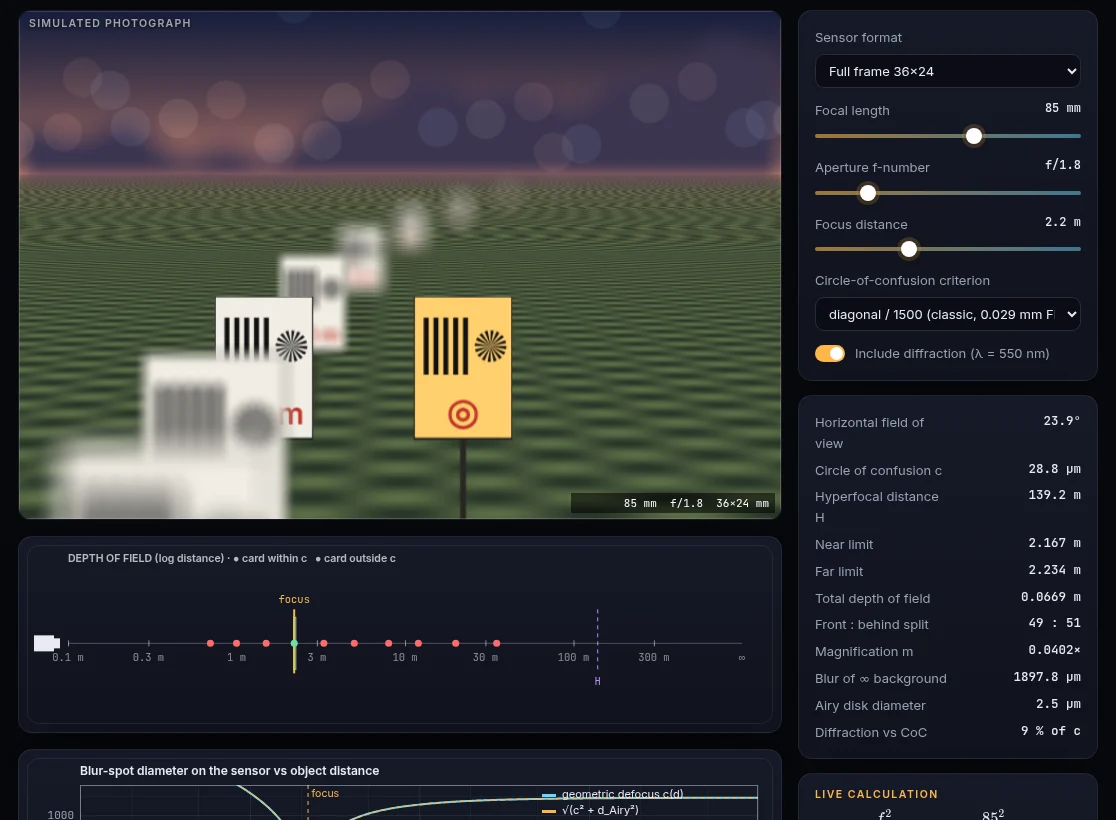
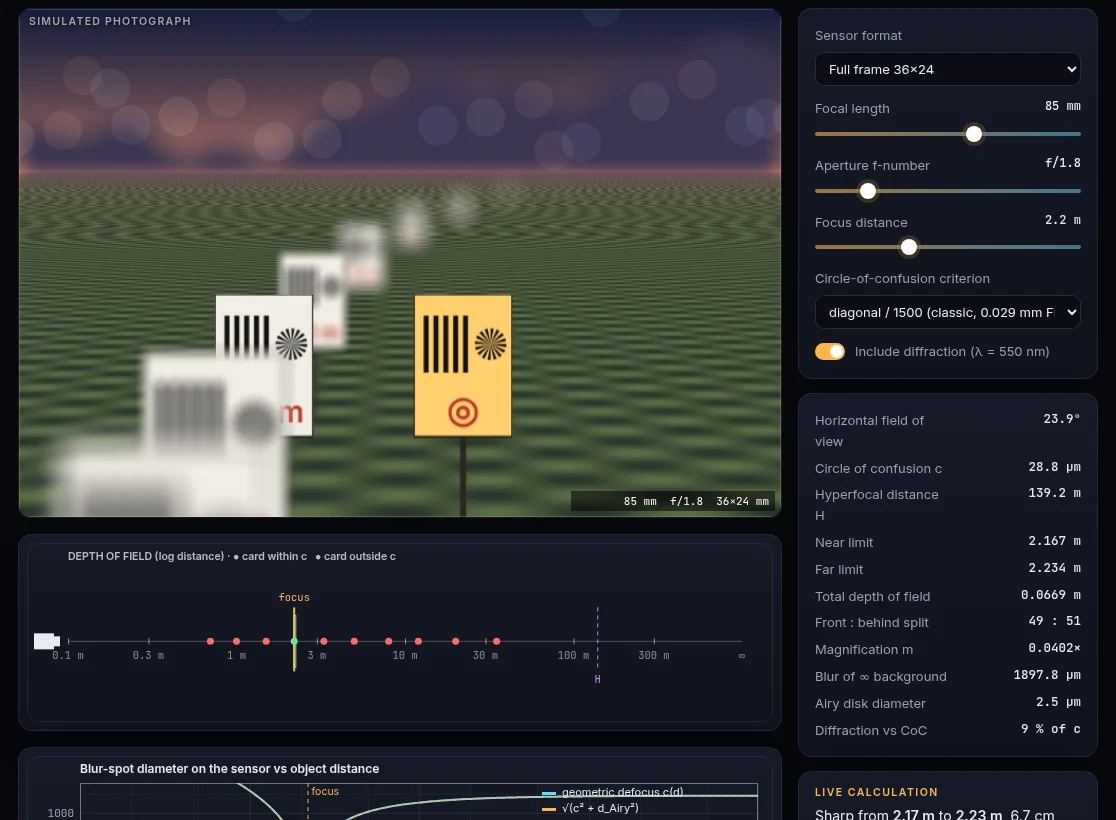
feat(ladder): simple-to-exact explanation ladder, piloted on three labs (#68)
Pages climb from a plain-language idea with things to try, through the
simulation (with the live result in words) and a rule of thumb with its
limits, to the full model and references. A strip under the title jumps
between the steps. Pilot: depth of field, diffraction & PSF, seeing.

diff --git a/js/modules/psf.js b/js/modules/psf.js
@@ -1,5 +1,5 @@
 import { h, controls, stage, readouts, imageCanvas, fmt, texNum } from '../lib/ui.js';
-import { header, lab, theory, references, liveCalc } from '../lib/page.js';
+import { header, lab, idea, rule, theory, references, liveCalc } from '../lib/page.js';
 import { airy, besselJ1 as besselJ1x } from '../lib/pupil.js';
 import { latest } from '../lib/compute.js';
 import { oetf, linspace } from '../lib/color.js';
@@ -27,7 +27,13 @@ const BANDS = {
 };
 
 export default function mount(root, meta) {
-  root.append(header({ ...meta, lede: 'The image of a point is never a point. A lens forms the Fourier transform of its own aperture, so every iris blade, secondary mirror, support strut and segment gap is written into each star and highlight as rings, spikes and halos. These patterns are computed by FFT from the true pupil geometry.', domains: ['photo', 'video', 'space'] }));
+  root.append(header({ ...meta, domains: ['photo', 'video', 'space'] }));
+  root.append(idea(String.raw`<p>Light is a wave, and a wave cannot be squeezed into a single point. Even a perfect lens turns each star into a small bright dot surrounded by faint rings, the <strong>Airy pattern</strong>. The wider the opening, the smaller the dot. That is why large telescopes see finer detail, and why stopping a camera lens far down makes photos softer.</p>
+<p>The shape of the opening is written into the pattern too. A straight edge throws light sideways, at right angles to itself. A six-bladed iris therefore turns bright lights into six-pointed stars, and the struts that hold a telescope's small mirror make the spikes in Hubble and Webb pictures.</p>`, [
+    'Choose <strong>Circular (ideal lens)</strong>: a dot and rings. Now guess what a <strong>Square aperture</strong> gives, then check.',
+    'Choose the <strong>5-blade iris</strong> and count the spikes. Why 10 and not 5? (Each edge sends light both ways; with an even blade count the opposite spikes overlap.)',
+    'Compare <strong>Hubble</strong> with <strong>James Webb</strong>: Webb\'s hexagonal mirror segments give six large spikes, and a strut adds two small ones.',
+  ]));
 
   const ctl = controls({
     preset: { type: 'select', label: 'Aperture', value: 'jwst', options: Object.entries(PRESETS).map(([k, p]) => [k, p.label]) },
@@ -83,6 +89,11 @@ export default function mount(root, meta) {
     if (data.spec.type === 'polygon') rows.push(['Diffraction spikes', `${st.blades % 2 ? 2 * st.blades : st.blades} (${st.blades} blades, ${st.blades % 2 ? 'odd → 2n' : 'even → n'})`]);
     ro.replaceChildren(readouts(rows));
     const D = P.tel ? P.D : null;
+    const th = 1.22 * lam / D, d = 2.44 * band.ref / 1000 * st.N;
+    calc.say((P.tel
+      ? `The finest detail the ${P.label.replace(/ \(.*\)$/, '')} can separate at ${fmt(band.ref / 1000, 3)} µm is about <strong>${fmt(th * 206265 * 1000, 3)} milliarcseconds</strong>: the size of a coin seen from ${fmt(0.023 / th / 1000, 3)} km.`
+      : `At f/${st.N.toPrecision(2)} a point of light becomes a dot <strong>${fmt(d, 3)} µm</strong> across, ${fmt(d / 4.3, 2)} pixels on a sensor with 4.3 µm pixels.`)
+      + (st.defocus ? ` Defocus has lowered the peak to ${(data.strehl * 100).toFixed(0)} % of a perfect focus.` : ''));
     calc.set(P.tel
       ? String.raw`\begin{aligned}\theta_R &= 1.22\,\lambda/D\\ &= 1.22\times\frac{${texNum(band.ref / 1000, 3)}\,\mu\text{m}}{${D}\ \text{m}}\\ &= ${texNum((1.22 * lam / D) * 206265 * 1000, 4)}\ \text{mas}\\ \text{PSF}(\boldsymbol\theta) &= \Big|\mathcal F\{P\,e^{i2\pi W/\lambda}\}\Big|^2_{\,\mathbf f=\boldsymbol\theta/\lambda}\end{aligned}`
       : String.raw`\begin{aligned}I(v) &= \left[\frac{2J_1(v)}{v}\right]^2,\quad v = \frac{\pi r}{\lambda N}\\ r_\text{Airy} &= 1.22\,\lambda N = 1.22\times${texNum(band.ref / 1000, 3)}\times${texNum(st.N, 3)}\\ &= ${texNum(1.22 * band.ref / 1000 * st.N, 3)}\ \mu\text{m}\end{aligned}`);
@@ -174,6 +185,10 @@ export default function mount(root, meta) {
 
   recompute();
 
+  root.append(rule(String.raw`\[\theta \approx 1.22\,\frac{\lambda}{D}\qquad\text{on the sensor:}\qquad d_\text{Airy} = 2.44\,\lambda N \approx 1.3\,N\ \mu\text{m}\]
+<p>The smallest angle a telescope of diameter \(D\) can resolve is about the wavelength \(\lambda\) divided by \(D\). Hubble (2.4 m) in green light: \(1.22 \times 0.55\,\mu\text{m} / 2.4\,\text{m} = 0.28\) µrad, or 0.06″. Double the mirror and the limit halves. In a camera the dot's diameter in micrometres is about 1.3 times the f-number for green light: about 10 µm at f/8, 21 µm at f/16.</p>
+<p>Spikes: an iris with \(n\) straight blades gives \(n\) spikes when \(n\) is even and \(2n\) when it is odd.</p>`,
+    String.raw`It describes a round, perfectly focused aperture. A central obstruction moves light from the core into the rings, aberrations and defocus spread it further, and on the ground the atmosphere usually blurs far more than diffraction does (see <a href="#/seeing">Atmospheric seeing</a>). The full model below computes the pattern for any aperture.`));
   root.append(theory('Fraunhofer diffraction by apertures', String.raw`
 <div class="theory-cols"><div>
 <h3>The PSF is the squared Fourier transform of the pupil</h3>

diff --git a/js/lib/page.js b/js/lib/page.js
@@ -7,7 +7,7 @@ export function header(meta) {
   return h('header.mod-head', {},
     h('div.eyebrow', {}, meta.group),
     h('h1', {}, meta.title),
-    h('p.lede', {}, meta.lede || ''),
+    meta.lede ? h('p.lede', {}, meta.lede) : null,
     h('div.tags', {}, ...(meta.domains || []).map((d) => h('span.tag.' + d, {}, TAG[d] || d)),
       h('button.tag.share', { type: 'button', title: 'Copy a link to this page with the current settings', onClick: (e) => copyLink(e.currentTarget.querySelector('span')),
         html: '<svg width="12" height="12" viewBox="0 0 24 24" fill="none" stroke="currentColor" stroke-width="2.4" stroke-linecap="round" aria-hidden="true"><path d="M10 14a5 5 0 0 0 7.07 0l3-3a5 5 0 0 0-7.07-7.07l-1.5 1.5"/><path d="M14 10a5 5 0 0 0-7.07 0l-3 3a5 5 0 0 0 7.07 7.07l1.5-1.5"/></svg><span>Copy link</span>' })),
@@ -32,19 +32,70 @@ export function lab(main, side, wide = false) {
       new IntersectionObserver(([e]) => card.classList.toggle('in-view', e.isIntersecting), { rootMargin: '-35% 0px -35% 0px' }).observe(mainEl);
     } else card.classList.add('in-view');
   }
-  return h('div.lab' + (wide ? '.wide-ctl' : ''), {}, mainEl, h('div.lab-side', {}, ...side));
+  return h('div.lab' + (wide ? '.wide-ctl' : ''), { 'data-rung': 'sim' }, mainEl, h('div.lab-side', {}, ...side));
 }
 
-export function theory(title, html) { return section(title, prose(html)); }
+// ── Explanation ladder ───────────────────────────────────────────────────────────────────
+// A page reads from simple to exact: ① the idea in plain words (with things to try), the
+// simulation, ② a rule of thumb that says where it stops working, ③ the full model, ④ references.
+// Every rung is visible; ladder() adds the numbers and a strip to jump between them.
+export function idea(html, tries = []) {
+  return h('section.block.rung-idea', { 'data-rung': 'idea' }, h('h2', {}, 'The idea'),
+    h('div.idea', {}, prose(html, 'idea-text'),
+      tries.length ? h('div.try', {}, h('div.calc-title', {}, 'Try it'), h('ol', {}, ...tries.map((t) => h('li', { html: t })))) : null));
+}
+
+export function rule(html, limits) {
+  return h('section.block.rung-rule', { 'data-rung': 'rule' }, h('h2', {}, 'Rule of thumb'),
+    prose(html + (limits ? `<div class="callout blue"><strong>Where it stops working.</strong> ${limits}</div>` : '')));
+}
+
+export function theory(title, html) {
+  const el = section(title, prose(html));
+  el.dataset.rung = 'full';
+  return el;
+}
 
 export function references(items) {
-  return section('References', h('ol.refs', {}, ...items.map((r) => h('li', { html: r }))));
+  const el = section('References', h('ol.refs', {}, ...items.map((r) => h('li', { html: r }))));
+  el.dataset.rung = 'refs';
+  return el;
+}
+
+const RUNGS = { idea: 'The idea', sim: 'Simulation', rule: 'Rule of thumb', full: 'Full model', refs: 'References' };
+// Numbers the rungs and inserts the jump strip under the header. Returns a cleanup function.
+export function ladder(page) {
+  const seen = new Set();
+  const rungs = [...page.querySelectorAll('[data-rung]')].filter((el) => !seen.has(el.dataset.rung) && seen.add(el.dataset.rung));
+  if (!rungs.some((el) => el.dataset.rung === 'idea')) return () => {};
+  let n = 0;
+  const items = rungs.map((el) => {
+    const k = el.dataset.rung, num = k === 'sim' ? null : String(++n);
+    const h2 = el.querySelector(':scope > h2');
+    if (num && h2) h2.prepend(h('span.rung-n', { 'aria-hidden': 'true' }, num));
+    const b = h('button', { type: 'button', onClick: () => el.scrollIntoView({ behavior: 'smooth', block: 'start' }) },
+      num ? h('span.rung-n', { 'aria-hidden': 'true' }, num) : h('span.rung-n.sim', { 'aria-hidden': 'true' }, '▶'), RUNGS[k]);
+    return { el, b };
+  });
+  const nav = h('nav.ladder', { 'aria-label': 'From the simple idea to the full model' },
+    h('span.ladder-k', {}, 'Simple → exact'), ...items.map((i) => i.b));
+  page.querySelector('.mod-head')?.after(nav);
+  if (typeof IntersectionObserver !== 'function') return () => {};
+  const vis = new Map();
+  const io = new IntersectionObserver((es) => {
+    for (const e of es) vis.set(e.target, e.isIntersecting);
+    const cur = items.find((i) => vis.get(i.el));
+    for (const i of items) i.b.classList.toggle('on', i === cur);
+  }, { rootMargin: '-20% 0px -55% 0px' });
+  for (const i of items) io.observe(i.el);
+  return () => io.disconnect();
 }
 
 // Live-calculation card: returns {el, set(tex)}
 import { setTex } from './ui.js';
+// say(html) puts the result in plain words above the equations.
 export function liveCalc(title = 'Live calculation') {
-  const body = h('div');
-  const el = h('div.card.calc', {}, h('div.calc-title', {}, title), body);
-  return { el, set: (src) => setTex(body, src, true) };
+  const words = h('p.calc-say'), body = h('div');
+  const el = h('div.card.calc', {}, h('div.calc-title', {}, title), words, body);
+  return { el, set: (src) => setTex(body, src, true), say: (html) => { words.innerHTML = html; } };
 }

diff --git a/js/modules/dof.js b/js/modules/dof.js
@@ -1,5 +1,5 @@
 import { h, controls, stage, readouts, fmt, texNum } from '../lib/ui.js';
-import { header, lab, theory, references, liveCalc } from '../lib/page.js';
+import { header, lab, idea, rule, theory, references, liveCalc } from '../lib/page.js';
 import { SENSORS, diag, pitchUm } from '../lib/sensors.js';
 import { besselJ1 } from '../lib/pupil.js';
 import { plot, logRange } from '../lib/plot.js';
@@ -69,7 +69,13 @@ function cardImage(wpx, hpx, label, subject) {
 }
 
 export default function mount(root, meta) {
-  root.append(header({ ...meta, lede: 'A lens focuses exactly one plane. Points in front of or behind it image as blur disks, and depth of field is the range over which those disks stay smaller than a chosen circle of confusion. The photograph below is rendered with the camera\'s real geometry: framing from focal length and sensor size, and per-object blur from the thin-lens equation.', domains: ['photo', 'video'] }));
+  root.append(header({ ...meta, domains: ['photo', 'video'] }));
+  root.append(idea(String.raw`<p>A lens can bring only one distance into perfect focus. Anything nearer or farther becomes a small blurred spot instead of a point. While those spots stay small, the eye still reads them as sharp, so there is a zone around the focus distance that looks sharp: the <strong>depth of field</strong>.</p>
+<p>Three things set its depth. A <strong>smaller aperture</strong> (a larger f-number such as f/11) narrows the cone of light and deepens the zone, which is why squinting helps you see. <strong>Focusing farther away</strong> deepens it quickly. A <strong>longer lens</strong> at the same distance makes it shallower.</p>`, [
+    'Set the aperture to <strong>f/1.8</strong> and focus at <strong>2 m</strong>: only a thin slice is sharp. Guess what <strong>f/11</strong> will do, then try it.',
+    'Keep f/1.8 and move the focus from 2 m to <strong>10 m</strong>. The sharp zone grows about 25-fold, not 5-fold. The rule of thumb below says why.',
+    'Stop down to <strong>f/32</strong> and toggle <strong>Include diffraction</strong>: past a point, a smaller aperture makes everything slightly soft.',
+  ]));
 
   const ctl = controls({
     sensor: { type: 'select', label: 'Sensor format', value: 'ff', options: Object.entries(SENSORS).map(([k, s]) => [k, s.name]) },
@@ -118,6 +124,11 @@ export default function mount(root, meta) {
       ['Airy disk diameter', (airy * 1000).toFixed(1) + ' µm'],
       ['Diffraction vs CoC', airy > c ? 'diffraction-limited ⚠' : (airy / c * 100).toFixed(0) + ' % of c'],
     ]));
+    const m1 = (x) => fmt(x / 1000, 3) + ' m';
+    calc.say((isFinite(Df)
+      ? `Sharp from <strong>${m1(Dn)}</strong> to <strong>${m1(Df)}</strong>, ${tot < 1000 ? fmt(tot / 10, 2) + ' cm' : fmt(tot / 1000, 2) + ' m'} deep: ${(((s - Dn) / tot) * 100).toFixed(0)} % of it in front of the focus, ${(((Df - s) / tot) * 100).toFixed(0)} % behind.`
+      : `Sharp from <strong>${m1(Dn)}</strong> to <strong>infinity</strong>: the focus is at or beyond the hyperfocal distance (${m1(H)}).`)
+      + (M.diff && airy > c ? ' At this f-number diffraction alone blurs more than the sharpness limit, so nothing is perfectly crisp.' : ''));
     calc.set(String.raw`\begin{aligned}
 H &= \frac{f^2}{Nc} + f = \frac{${texNum(f, 4)}^2}{${texNum(N, 3)}\times${texNum(c, 3)}} + ${texNum(f, 4)}\\ &= ${texNum(H / 1000, 4)}\ \text{m}\\[2pt]
 D_N &= \frac{s f^2}{f^2 + Nc(s-f)} = ${texNum(Dn / 1000, 4)}\ \text{m}\\[2pt]
@@ -275,6 +286,10 @@ c(d) &= \frac{f}{N}\cdot\frac{f\,|d-s|}{d\,(s-f)}
 
   update();
 
+  root.append(rule(String.raw`\[\mathrm{DoF} \approx \frac{2\,N c\, s^2}{f^2}\]
+<p>Depth of field grows with the f-number \(N\) and with the <em>square</em> of the focus distance \(s\), and shrinks with the square of the focal length \(f\). \(c\) is the largest blur spot that still looks sharp, about 0.03 mm on a full-frame sensor. Example: an 85 mm lens at f/1.8 focused at 2 m gives \(2 \times 1.8 \times 0.03 \times 2000^2 / 85^2 \approx 60\) mm, so only 6 cm is sharp. Focus at 4 m and it is four times deeper.</p>
+<p>A second rule: focus at the <strong>hyperfocal distance</strong> \(H \approx f^2/(Nc)\) and everything from \(H/2\) to infinity looks sharp. For a 24 mm lens at f/8 that is 2.4 m, so everything beyond 1.2 m is sharp.</p>`,
+    String.raw`It assumes the subject is much farther away than the focal length and much closer than the hyperfocal distance. Near \(H\) the far limit runs off to infinity, and in close-up work the magnification term takes over. The full model below handles both, and the live calculation uses it.`));
   root.append(theory('Derivation', String.raw`
 <div class="theory-cols"><div>
 <h3>Blur disk from the thin-lens equation</h3>

diff --git a/js/modules/seeing.js b/js/modules/seeing.js
@@ -1,12 +1,18 @@
 import { h, controls, stage, readouts, debounce, imageCanvas, fmt, texNum, reducedMotion } from '../lib/ui.js';
-import { header, lab, theory, references, liveCalc } from '../lib/page.js';
+import { header, lab, idea, rule, theory, references, liveCalc } from '../lib/page.js';
 import { rasterAperture, psf } from '../lib/pupil.js';
 import { lut } from '../lib/color.js';
 import { phaseScreen } from '../lib/turbulence.js';
 
 
 export default function mount(root, meta) {
-  root.append(header({ ...meta, lede: 'Turbulent mixing of air at different temperatures makes the refractive index fluctuate by parts per million. That is enough to corrugate a starlight wavefront by several micrometres across a large telescope, blurring a 0.01″ diffraction pattern into a 1″ seeing disk. Adaptive optics measures the corrugations a thousand times per second and flattens them with a deformable mirror. Space telescopes avoid the problem entirely.', domains: ['space', 'photo'] }));
+  root.append(header({ ...meta, domains: ['space', 'photo'] }));
+  root.append(idea(String.raw`<p>Look across a road on a hot day and the view behind it shimmers. Starlight suffers the same on its way down: pockets of warmer and cooler air bend it by slightly different amounts. A star's image dances and breaks into flickering speckles, and a long exposure smears them into a fuzzy blob, often dozens of times larger than the telescope could otherwise show. Astronomers call this <strong>seeing</strong>. It is why observatories sit on mountaintops, and why telescopes go to space.</p>
+<p><strong>Adaptive optics</strong> fights back: a sensor measures the distortion hundreds of times per second, and a flexible mirror bends to cancel it.</p>`, [
+    'Set Correction to <strong>None</strong> and compare the long exposure with the diffraction limit on the right. How many times larger is the blob?',
+    'Switch to <strong>Full AO</strong>, then raise the <strong>wind speed</strong> to 40 m/s: the mirror can no longer keep up.',
+    'With Full AO, move the <strong>wavelength</strong> from 0.5 to 2.2 µm. The correction works far better in the infrared, which is where most adaptive optics observes.',
+  ]));
 
   const ctl = controls({
     D: { type: 'range', label: 'Telescope diameter D', min: 0.2, max: 10, log: true, value: 4, unit: 'm' },
@@ -65,6 +71,10 @@ export default function mount(root, meta) {
       ['Predicted Strehl e^(−σ²)', Math.exp(-sTot).toExponential(2)],
       ['Measured long-exp. Strehl', '…'],
     ]));
+    const strehl = Math.exp(-sTot);
+    calc.say(`At ${lam} µm the air blurs stars to <strong>${seeing.toFixed(2)}″</strong>, ${Math.max(1, seeing / dlim).toFixed(0)} times the ${st.D.toPrecision(2)} m telescope's own limit of ${(dlim * 1000).toFixed(0)} mas. `
+      + (st.ao === 'off' ? 'Without correction, ' : st.ao === 'tt' ? 'Removing only the image motion, ' : 'With adaptive optics, ')
+      + `the peak brightness is about <strong>${strehl < 0.001 ? 'below 0.1' : (strehl * 100).toPrecision(2)} %</strong> of a perfect image (the Strehl ratio).`);
     calc.set(String.raw`\begin{aligned}
     r_0(\lambda) &= r_0(500)\left(\tfrac{\lambda}{0.5\,\mu m}\right)^{6/5} = ${texNum(r0l * 100, 3)}\ \text{cm}\\
     \sigma^2_\text{fit} &= 0.28\,(d/r_0)^{5/3} = ${texNum(sFit, 3)}\\
@@ -198,6 +208,10 @@ export default function mount(root, meta) {
   reset();
   raf = requestAnimationFrame(loop);
 
+  root.append(rule(String.raw`\[\text{seeing} \approx \frac{\lambda}{r_0}\qquad\text{vs.}\qquad \text{diffraction} \approx 1.22\,\frac{\lambda}{D}\]
+<p>The Fried parameter \(r_0\) is the width of a patch of air that bends light nearly uniformly: 10–20 cm in visible light at a good site. A telescope larger than \(r_0\) resolves no better than one of diameter \(r_0\). Example: with \(r_0 = 12\) cm at 0.5 µm, seeing is \(0.98 \times 0.5\,\mu\text{m}/0.12\,\text{m} \approx 0.84″\), while a 4 m telescope could reach 0.03″, about 27 times sharper.</p>
+<p>\(r_0\) grows with wavelength as \(\lambda^{6/5}\), so seeing improves slowly towards the infrared (\(\propto\lambda^{-1/5}\)) while the diffraction limit worsens. The gap that adaptive optics must close is smallest there.</p>`,
+    String.raw`It assumes Kolmogorov turbulence with a very large outer scale. For telescopes approaching the outer scale (tens of metres) the real seeing disk is smaller than \(\lambda/r_0\) predicts, and a telescope smaller than \(r_0\) is limited by diffraction instead. Real nights change \(r_0\) from minute to minute.`));
   root.append(theory('Kolmogorov turbulence and its correction', String.raw`
 <div class="theory-cols"><div>
 <h3>Statistics of the refractive index</h3>

diff --git a/css/style.css b/css/style.css
@@ -311,3 +311,41 @@ canvas:focus-visible { outline-offset: -2px; }
 .rx-table td { vertical-align: middle; }
 .rx-table select.rx-glass { width: 128px; padding: 5px 6px; }
 .rx-del { padding: 4px 9px; }
+
+/* Explanation ladder: ① idea → simulation → ② rule of thumb → ③ full model → ④ references */
+.ladder {
+  position: sticky; top: 0; z-index: 12; display: flex; align-items: center; gap: 4px; overflow-x: auto; scrollbar-width: none;
+  margin: 0 0 6px; padding: 8px 0; background: rgba(7, 8, 13, 0.86); backdrop-filter: blur(10px); border-bottom: 1px solid var(--line);
+}
+.ladder::-webkit-scrollbar { display: none; }
+.ladder-k { font: 600 10.5px/1 var(--font-sans); letter-spacing: .14em; text-transform: uppercase; color: var(--fg-faint); margin-right: 8px; white-space: nowrap; }
+.ladder button {
+  display: inline-flex; align-items: center; gap: 7px; flex: 0 0 auto; padding: 5px 11px 5px 6px; border-radius: 99px;
+  border: 1px solid transparent; background: transparent; color: var(--fg-dim); font: 500 12.5px var(--font-sans); cursor: pointer;
+}
+.ladder button:hover { color: var(--fg); border-color: var(--line-2); }
+.ladder button.on { color: var(--fg); border-color: var(--line-2); background: rgba(255, 255, 255, 0.04); }
+.rung-n {
+  display: inline-grid; place-items: center; width: 22px; height: 22px; flex: 0 0 22px; border-radius: 50%;
+  border: 1px solid var(--accent); color: var(--accent); font: 600 12px/1 var(--font-mono);
+}
+.ladder .rung-n { width: 19px; height: 19px; flex-basis: 19px; font-size: 10.5px; }
+.rung-n.sim { border-color: var(--accent-2); color: var(--accent-2); font-size: 8px; }
+.ladder button.on .rung-n { background: var(--accent); color: #111; }
+.ladder button.on .rung-n.sim { background: var(--accent-2); }
+[data-rung] { scroll-margin-top: 58px; }
+.rung-idea { margin-top: 8px; }
+.idea { display: grid; grid-template-columns: minmax(0, 1.5fr) minmax(0, 1fr); gap: 18px 28px; align-items: start; }
+.idea-text { font-size: 16.5px; color: var(--fg); max-width: 70ch; }
+.idea-text p:last-child { margin-bottom: 0; }
+.try { border-left: 2px solid var(--accent-2); background: rgba(106, 215, 255, 0.04); border-radius: 0 10px 10px 0; padding: 10px 14px; }
+.try .calc-title { color: var(--accent-2); }
+.try ol { margin: 6px 0 0; padding-left: 18px; font-size: 14px; color: var(--fg-dim); }
+.try li { margin: 6px 0; }
+.try li strong { color: var(--fg); }
+.calc-say { margin: 6px 0 4px; font-size: 14px; line-height: 1.5; color: var(--fg); }
+.calc-say:empty { display: none; }
+@media (max-width: 860px) {
+  .ladder { position: static; background: none; backdrop-filter: none; }
+  .idea { grid-template-columns: 1fr; }
+}

diff --git a/js/app.js b/js/app.js
@@ -1,5 +1,6 @@
 // Optica Viva — router and module registry.
 import { h, resetUrlState } from './lib/ui.js';
+import { ladder } from './lib/page.js';
 
 // Laboratories that are implemented; the rest show an 'under construction' notice.
 export const READY = new Set(['home', 'foundations', 'raytracer', 'dof', 'psf', 'zernike', 'chromatic', 'sensor', 'projection', 'mtf', 'bokeh', 'flare', 'seeing', 'lucky', 'wfs', 'spectro', 'interferometry', 'detectors', 'adc', 'stacking', 'starshade', 'fieldpsf', 'telescope', 'lensing', 'sampling', 'noise', 'hdr', 'colour', 'cinema', 'motion', 'shake', 'film', 'vp', 'vignetting', 'perspective', 'tiltshift', 'panorama', 'macro', 'eye', 'polarisation', 'catalogue']);
@@ -93,7 +94,9 @@ async function route() {
   try {
     const mod = await import(`./modules/${meta.id}.js`);
     if (my !== token) return;
-    cleanup = (await mod.default(page, meta)) || null;
+    const done = (await mod.default(page, meta)) || null;
+    const unladder = ladder(page);
+    cleanup = () => { unladder(); if (done) done(); };
   } catch (e) {
     console.error(e);
     const missing = /Failed to fetch|Importing a module script failed|error loading dynamically imported module/i.test(e.message);

diff --git a/ROADMAP.md b/ROADMAP.md
@@ -44,6 +44,7 @@ This file records **what has been delivered** and **what is planned** for Optica
 3. **Zero install.** Static files, no build step, works offline. New dependencies need a strong justification.
 4. **Verifiable.** Claims of accuracy must be backed by a validation entry, and from v1.1 on, by an automated test.
 5. **Beautiful by default.** Visuals must read at a glance in a dark, photographic aesthetic.
+6. **Simple before exact.** Every reader should get somewhere. Pages climb from a plain-language idea through a rule of thumb to the full model, all visible in that order; there is no beginner/expert switch.
 
 ---
 
@@ -53,11 +54,11 @@ This file records **what has been delivered** and **what is planned** for Optica
 flowchart LR
     subgraph Done["✅ Delivered"]
         direction TB
-        D0["v0.1–v0.19<br/>20 laboratories"] --> D1["v1.0<br/>catalogue · stable"] --> D2["v1.0.x<br/>README · roadmap"] --> D3["v1.1<br/>tests · CI · Pages · Safari · a11y"] --> D4["v1.2<br/>worker · faster FFT"] --> D5["v1.3<br/>aspheres · editor · Seidel"] --> D6["v1.4<br/>MTF field · optimiser · tolerancing"] --> D7["v1.5<br/>real-ray flare · traced bokeh"] --> D8["v1.6<br/>polarisation · macro · colour"] --> D9["v1.7<br/>AO loop · spectroscopy"] --> D10["v1.8<br/>7 photo/cine labs"] --> D11["v1.9<br/>7 space labs"]
+        D0["v0.1–v0.19<br/>20 laboratories"] --> D1["v1.0<br/>catalogue · stable"] --> D2["v1.0.x<br/>README · roadmap"] --> D3["v1.1<br/>tests · CI · Pages · Safari · a11y"] --> D4["v1.2<br/>worker · faster FFT"] --> D5["v1.3<br/>aspheres · editor · Seidel"] --> D6["v1.4<br/>MTF field · optimiser · tolerancing"] --> D7["v1.5<br/>real-ray flare · traced bokeh"] --> D8["v1.6<br/>polarisation · macro · colour"] --> D9["v1.7<br/>AO loop · spectroscopy"] --> D10["v1.8<br/>7 photo/cine labs"] --> D11["v1.9<br/>7 space labs"] --> D12["v1.10<br/>catalogue explorer"]
     end
     subgraph Next["Planned"]
         direction TB
-        N7["v2.0 learning platform"]
+        N6["v1.11 simple → exact ladder"] --> N7["v2.0 learning platform"]
     end
     Done --> Next
     style Done fill:#13241b,stroke:#6be3a4,color:#fff
@@ -69,7 +70,7 @@ flowchart LR
 | Laboratories | 39 | v1.9 complete |
 | Catalogue entries | 228, each with details and a worked example | link every new lab |
 | Lens prescriptions | 5 | 10+ with aspheres and file import |
-| Automated tests | 133 tests (physics, blur, lens I/O, ghosts, bokeh, polarisation, macro, colour, AO) + link check + browser smoke test in CI | more coverage per new lab |
+| Automated tests | 137 tests (physics, blur, lens I/O, ghosts, bokeh, polarisation, macro, colour, AO) + link check + browser smoke test in CI | more coverage per new lab |
 | Deployment | GitHub Pages, deployed from `main` by CI | (none) |
 
 ---
@@ -351,6 +352,16 @@ An audit of v1.0.1 (code, performance, layout, accessibility and browser compati
 | [x] **Astrophotography stacking** | SNR ∝ √N, sky-limited vs read-limited sub-exposures, light pollution (PR #59) | P3 · M |
 | [x] **Atmospheric dispersion & ADC** | elongated stellar images vs zenith angle; Risley-prism corrector (PR #57) | P3 · S |
 | [x] **Lucky imaging** | frame selection by Strehl from the seeing simulator (PR #58) | P3 · S |
+
+### v1.11 From simple to exact
+
+*Goal: a reader without physics training understands what each laboratory shows, and a specialist still reaches the derivation in one click.* The design follows the research on concreteness fading (Fyfe et al. 2014), the spiral curriculum (Bruner 1960), the expertise-reversal effect (Kalyuga et al. 2003) and PhET's implicit scaffolding (Podolefsky et al. 2013): simple models first and honest about their limits, short enough not to slow experts down, and guidance through the simulation rather than long instructions.
+
+- [x] **P1 · M** **Ladder pilot** (PR #68): `idea()`, `rule()`, `liveCalc().say()` and the jump strip in `js/lib/page.js`; depth of field, diffraction & the PSF and atmospheric seeing; `test/ladder.test.mjs` (no symbols and at most 120 words in the idea, 1–3 things to try, a rule with its limits, the result in words).
+- [ ] **P1 · L** Ladder for the other 36 laboratories, one PR per sidebar group. When done, the test requires it on every laboratory.
+- [ ] **P2 · M** **Glossary**: one file of one-sentence definitions; terms such as f-number, PSF, Strehl ratio and MTF show them on hover or tap.
+- [ ] **P2 · S** **"Start here" path** on the home page: laboratories ordered from basic (pinhole, exposure, depth of field) to advanced (adaptive optics, starshade), as a suggestion, not a lock.
+- [ ] **P3 · S** Catalogue entries in the same order: plain description, example, explanation, equation.
 
 ### v2.0 Learning platform
 

diff --git a/README.md b/README.md
@@ -71,6 +71,10 @@ flowchart LR
     style C fill:#221a2e,stroke:#c18cff,color:#fff
 ```
 
+**From the simple idea to the full model.** Readers come with very different backgrounds, so a page climbs from simple to exact instead of offering a beginner/expert switch. ① *The idea* explains the phenomenon in plain words, without symbols, and suggests two or three things to try (predict first, then check). Then comes the simulation, whose live calculation starts with the result in a sentence. ② *Rule of thumb* gives the one formula worth remembering, a worked number and where it stops working. ③ *Full model* is the derivation, and ④ the references. A strip under the title jumps between the steps, so experts can go straight to the derivation. The depth-of-field, diffraction and seeing laboratories use this ladder; the others follow in v1.11.
+
+<img src="docs/screenshots/dof-ladder.webp" alt="Depth-of-field page: the ladder strip (The idea, Simulation, Rule of thumb, Full model, References) above a plain-language explanation and three things to try">
+
 It covers three domains (📷 photography, 🎬 cinematography and 🔭 astronomy and space), and every phenomenon is tagged with the ones it affects.
 
 Every setting is **shareable**. Controls are mirrored into the URL, so a link like [`#/psf?preset=hubble&band=white`](https://iiogurt.github.io/Optica_Viva/#/psf?preset=hubble&band=white) opens that exact configuration. Use **Copy link** in any page header. On phones each lab's controls slide up from a bottom sheet next to the live result. Canvases are labelled for screen readers, keyboard focus is visible, and animations respect *reduce motion*.
@@ -698,7 +702,7 @@ Optica_Viva/
 │   │   ├── phenomena.js       Catalogue data (228 entries in 13 groups)
 │   │   ├── phenomena-details.js  Explanation and worked example for every catalogue entry
 │   │   ├── plot.js            Canvas charting (log axes, legends, bands)
-│   │   ├── ui.js · page.js    DOM builder, controls, canvases, KaTeX helpers (DOM)
+│   │   ├── ui.js · page.js    DOM builder, controls, canvases, KaTeX helpers, explanation ladder (DOM)
 │   ├── workers/compute.js     Module Web Worker running js/lib/tasks.js
 │   └── modules/               One file per page (41)
 ├── vendor/katex/              KaTeX 0.16.11 (MIT), vendored for offline use

diff --git a/CLAUDE.md b/CLAUDE.md
@@ -13,6 +13,7 @@ Use the most precise model that runs interactively, and state every approximatio
 - Run: `npm start` (= `python3 -m http.server 8000`). Hash router: `#/<lab-id>`. Live site: https://iiogurt.github.io/Optica_Viva/ (deployed from `main` by `.github/workflows/pages.yml`; keep all paths relative).
 - `js/app.js`: lab registry (`MODULES`) and `READY` set. `js/lib/`: numerical core (fft, color, glass, raytrace, pupil, thinfilm, sensors, phenomena, plot, ui, page). `js/modules/<id>.js`: one page each, exporting `mount(root, meta)` that returns a cleanup function.
 - New lab: create the module, register it in `MODULES` and `READY`, link it from `js/lib/phenomena.js`, add a screenshot entry in `scripts/screenshots.mjs`.
+- Explanation ladder (simple → exact, all visible, no level switch): after `header()`, `idea(html, tries)` gives the phenomenon in plain words (no math, ≤ 120 words, aimed at ~9 years of schooling, every term explained, at most one analogy that says where it breaks) and 1–3 "try it" prompts (predict, then check). The live calculation calls `calc.say(html)` with the result in a sentence before the equations. Before `theory()`, `rule(html, limits)` gives one formula, a worked number and where it stops working. `test/ladder.test.mjs` enforces this; pilot: `dof`, `psf`, `seeing`.
 - Style: match the surrounding code; dark design system in `css/style.css`. Theory text goes in `String.raw` templates with `\( \)` / `\[ \]` math (never `$`). Never put a `//` comment inside a one-line `{ … }` block.
 - Randomness: use the seeded generators in `js/lib/random.js` (`uniform`, `makeRng`); never write a local LCG (consecutive LCG outputs fed to Box–Muller are correlated).
 - The owner's machine is a Raspberry Pi 4. Put heavy pure computations in `js/lib/tasks.js` and call them via `latest(channel)` from `js/lib/compute.js` (module worker, main-thread fallback). Performance targets are in `ROADMAP.md`; `npm run bench` measures the kernels.

diff --git a/CHANGELOG.md b/CHANGELOG.md
@@ -6,6 +6,17 @@ The format follows [Keep a Changelog](https://keepachangelog.com/en/1.1.0/), and
 
 ## [Unreleased]
 
+### Added
+- **From the simple idea to the full model.** Pages now climb from simple to exact, with everything visible in that order and no beginner/expert switch:
+  - ① *The idea*: the phenomenon in plain words, without symbols, beside two or three things to try in the simulation;
+  - the simulation, whose live calculation now starts with the result in a sentence ("Sharp from 2.17 m to 2.23 m, 6.7 cm deep …");
+  - ② *Rule of thumb*: the formula worth remembering, a worked number and where it stops working;
+  - ③ *Full model* (the existing derivation) and ④ references.
+
+  A strip under the title shows the steps, highlights the current one and jumps between them. The depth-of-field, diffraction & PSF and atmospheric seeing laboratories are the pilot; the plain-language idea replaces their technical lede.
+- `idea()`, `rule()` and `liveCalc().say()` in `js/lib/page.js`; the router adds the strip to any page with an idea.
+- Tests (`test/ladder.test.mjs`): a page with an idea has no symbols and at most 120 words in it, 1–3 things to try, a rule of thumb with its limits and the result in words.
+
 ## [1.10.0] - 2026-10-14
 
 A structured **catalogue explorer** ([#66](https://github.com/iiogurt/Optica_Viva/pull/66)): 13 groups with an overview and navigator, expandable entries with an explanation and a worked example each, search across groups and shareable links. The catalogue grows by 56 phenomena to 228, every equation is checked to render, and the colour accents of the sidebar and home cards now show. 39 interactive simulations and 133 tests.

diff --git a/CONTRIBUTING.md b/CONTRIBUTING.md
@@ -31,7 +31,7 @@ flowchart LR
 
 ## Adding a laboratory
 
-1. Create `js/modules/<id>.js` exporting `default function mount(root, meta)`. Build it from `header`, `lab`, `theory`, `references` and `liveCalc` (`js/lib/page.js`), plus `controls`, `stage` and `readouts` (`js/lib/ui.js`), and return a cleanup function.
+1. Create `js/modules/<id>.js` exporting `default function mount(root, meta)`. Build it from `header`, `idea`, `lab`, `rule`, `theory`, `references` and `liveCalc` (`js/lib/page.js`), plus `controls`, `stage` and `readouts` (`js/lib/ui.js`), and return a cleanup function.
 2. Register it in `MODULES` and `READY` in [`js/app.js`](js/app.js).
 3. Link it from the matching entries in [`js/lib/phenomena.js`](js/lib/phenomena.js).
 4. Put reusable physics in `js/lib/` (pure functions) and test it in `test/`.
@@ -42,6 +42,7 @@ Controls created with `controls()` are automatically shareable through the URL, 
 ## Style
 
 - Match the surrounding code: 2-space indent, single quotes, compact functional helpers.
+- Pages climb from simple to exact, all visible: `idea()` explains the phenomenon in plain words (no math, at most 120 words, every term explained) with one to three things to try; `calc.say()` states the live result in a sentence; `rule()` gives one formula, a worked number and where it stops working; `theory()` holds the full model.
 - Theory text goes in `String.raw` templates, with `\( … \)` and `\[ … \]` for math (never `$`).
 - Never put a `//` comment inside a one-line `{ … }` block; it swallows the closing brace.
 
